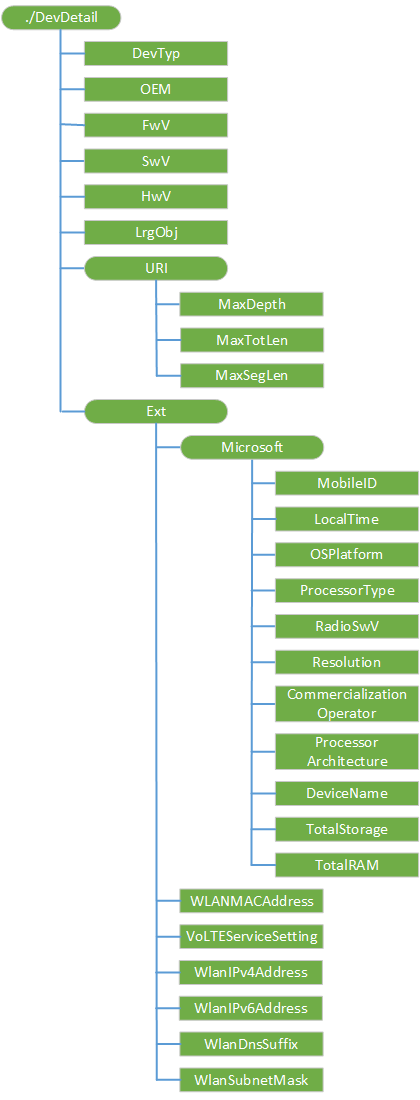
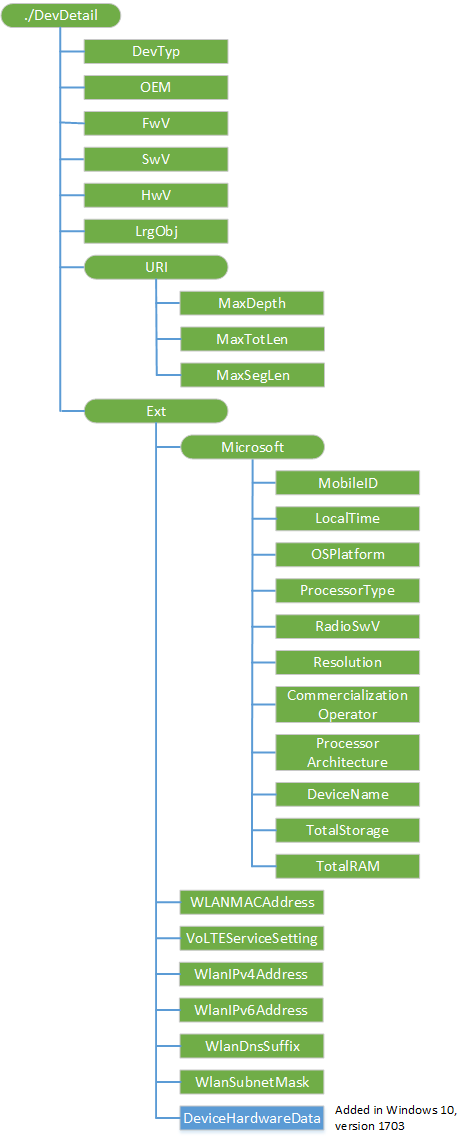
task 10416590: add DeviceHardwareData setting to DevDetail CSP, DDF, graphic

Changed region(s): [[0.0, 0.0, 1.0, 1.0]]

diff --git a/docset/customize/mdm/devdetail-ddf-file.md b/docset/customize/mdm/devdetail-ddf-file.md
@@ -9,6 +9,8 @@ ms.assetid: 645fc2b5-2d2c-43b1-9058-26bedbe9f00d
 
 # DevDetail DDF file
 
+> [!WARNING]
+> Some information relates to prereleased product, which may be substantially modified before it's commercially released. Microsoft makes no warranties, express or implied, with respect to the information provided here.  
 
 This topic shows the OMA DM device description framework (DDF) for the **DevDetail** configuration service provider. DDF files are used only with OMA DM provisioning XML.
 
@@ -36,7 +38,7 @@ This topic shows the OMA DM device description framework (DDF) for the **DevDeta
         <Permanent />
       </Scope>
       <DFType>
-        <DDFName>urn:oma:mo:oma-dm-devdetail:1.0</DDFName>
+        <DDFName>urn:oma:mo:oma-dm-devdetail:1.1</DDFName>
       </DFType>
     </DFProperties>
     <Node>
@@ -646,10 +648,30 @@ This topic shows the OMA DM device description framework (DDF) for the **DevDeta
           </DFType>
         </DFProperties>
       </Node>
+      <Node>
+        <NodeName>DeviceHardwareData</NodeName>
+        <DFProperties>
+          <AccessType>
+            <Get />
+          </AccessType>
+          <Description>Added in Windows 10 version 1703. Returns a base64 encoded string of the hardware parameters of a device.</Description>
+          <DFFormat>
+            <chr />
+          </DFFormat>
+          <Occurrence>
+            <One />
+          </Occurrence>
+          <Scope>
+            <Permanent />
+          </Scope>
+          <DFType>
+            <MIME>text/plain</MIME>
+          </DFType>
+        </DFProperties>
+      </Node>
     </Node>
   </Node>
 </MgmtTree>
-
 ```
 
 ## Related topics

diff --git a/docset/customize/mdm/devdetail-csp.md b/docset/customize/mdm/devdetail-csp.md
@@ -176,6 +176,11 @@ Returns the subnet mask for the active Wi-Fi connection. This is only exposed to
 
 Supported operation is Get.
 
+<a href="" id="devicehardwaredata"></a>**DeviceHardwareData**  
+Added in Windows 10 version 1703. Returns a base64-encoded string of the hardware parameters of a device.
+
+Supported operation is Get.
+
 ## Related topics
 
 
